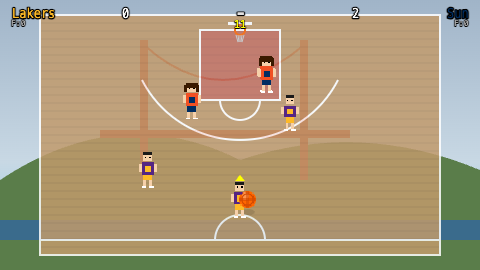
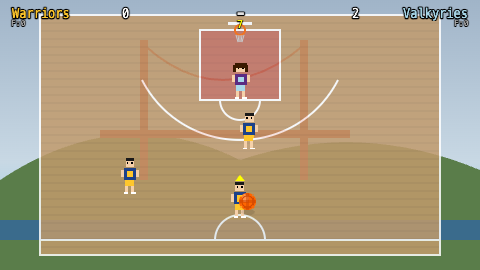
Show Warriors and Valkyries first, update screenshots
- Move Warriors to first position in team list, Valkyries second
- Warriors vs Valkyries is now the default matchup
- Update team select screenshot to show Warriors
- Update gameplay screenshot to show Warriors vs Valkyries

diff --git a/index.html b/index.html
@@ -37,10 +37,11 @@ const BALL_COLORS = [
 ];
 
 const TEAMS = [
+  { key: 'warriors',  name: 'Warriors',  primary: 0x1D428A, secondary: 0xFFC72C, league: 'NBA' },
+  { key: 'valkyries', name: 'Valkyries', primary: 0x5B2C82, secondary: 0xA8D8EA, league: 'WNBA' },
   { key: 'lakers',    name: 'Lakers',    primary: 0x552583, secondary: 0xFDB927, league: 'NBA' },
   { key: 'celtics',   name: 'Celtics',   primary: 0x007A33, secondary: 0xFFFFFF, league: 'NBA' },
   { key: 'bulls',     name: 'Bulls',     primary: 0xCE1141, secondary: 0x000000, league: 'NBA' },
-  { key: 'warriors',  name: 'Warriors',  primary: 0x1D428A, secondary: 0xFFC72C, league: 'NBA' },
   { key: 'heat',      name: 'Heat',      primary: 0x98002E, secondary: 0xF9A01B, league: 'NBA' },
   { key: 'nets',      name: 'Nets',      primary: 0x000000, secondary: 0xFFFFFF, league: 'NBA' },
   { key: 'aces',      name: 'Aces',      primary: 0xA6192E, secondary: 0x000000, league: 'WNBA' },
@@ -49,7 +50,6 @@ const TEAMS = [
   { key: 'sun',       name: 'Sun',       primary: 0xF05023, secondary: 0x002D62, league: 'WNBA' },
   { key: 'lynx',      name: 'Lynx',      primary: 0x266092, secondary: 0x79BC43, league: 'WNBA' },
   { key: 'mercury',   name: 'Mercury',   primary: 0xE56020, secondary: 0x1D1160, league: 'WNBA' },
-  { key: 'valkyries', name: 'Valkyries', primary: 0x5B2C82, secondary: 0xA8D8EA, league: 'WNBA' },
 ];
 
 const COURTS = [
@@ -946,7 +946,15 @@ class PlayerCustomizeScene extends Phaser.Scene {
       const playerLeague = TEAMS[this.teamIndex].league;
       const oppositeLeague = TEAMS.filter((t, i) => t.league !== playerLeague);
       if (oppositeLeague.length > 0) {
-        GameState.opponentTeam = oppositeLeague[Math.floor(Math.random() * oppositeLeague.length)];
+        // Prefer Valkyries vs Warriors matchup, otherwise random from opposite league
+        const playerKey = TEAMS[this.teamIndex].key;
+        if (playerKey === 'warriors') {
+          GameState.opponentTeam = TEAMS.find(t => t.key === 'valkyries') || oppositeLeague[0];
+        } else if (playerKey === 'valkyries') {
+          GameState.opponentTeam = TEAMS.find(t => t.key === 'warriors') || oppositeLeague[0];
+        } else {
+          GameState.opponentTeam = oppositeLeague[Math.floor(Math.random() * oppositeLeague.length)];
+        }
       } else {
         let oppIdx = (this.teamIndex + 3) % TEAMS.length;
         GameState.opponentTeam = TEAMS[oppIdx];
